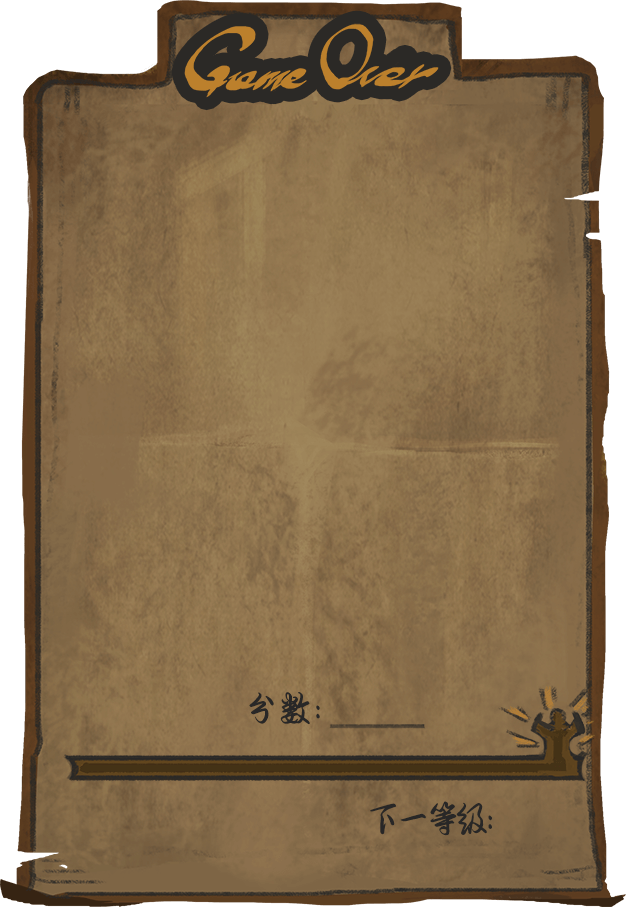
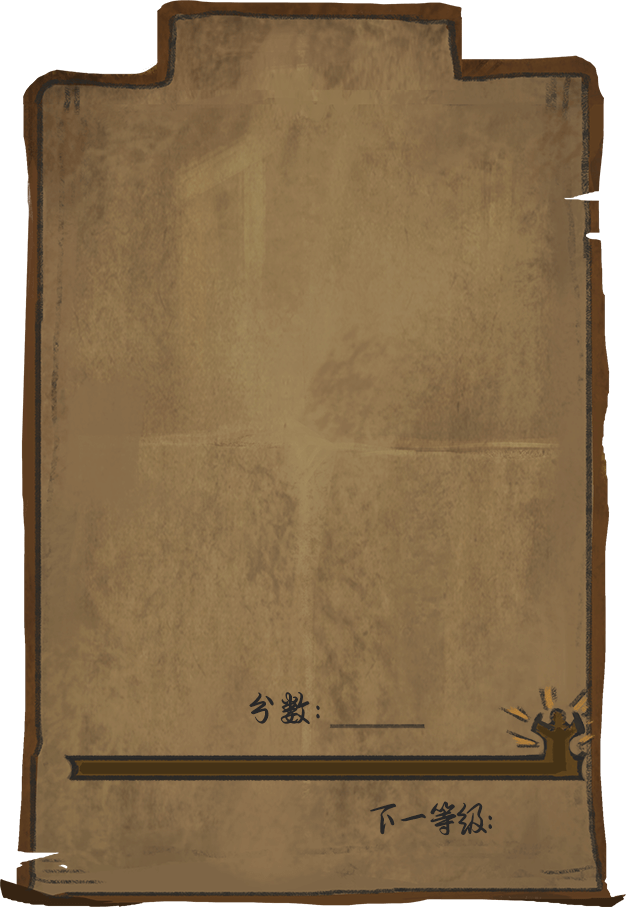
得分界面及玩家职业经验获得和升级

Changed region(s): [[0.2732, 0.0, 0.7284, 0.1221]]

diff --git a/client/src/view/ScoreView.ts b/client/src/view/ScoreView.ts
@@ -41,9 +41,23 @@ class ScoreView extends egret.DisplayObjectContainer{
 
         this.playerName = new egret.TextField();
         this.playerName.name ="playerName";
+        this.playerName.textColor = 0X000000;
+        this.playerName.verticalAlign = egret.VerticalAlign.MIDDLE;
 
         this.finalScore = new egret.TextField();
         this.finalScore.name = "finalScore";
+        this.finalScore.textColor = 0X000000;
+        this.finalScore.textAlign = egret.HorizontalAlign.CENTER;
+
+        this.exp = new egret.TextField();
+        this.exp.name = "exp";
+        this.exp.textColor = 0X000000;
+        this.exp.verticalAlign = egret.VerticalAlign.MIDDLE;
+
+        this.level = new egret.TextField();
+        this.level.name = "level";
+        this.level.textColor = 0X000000;
+        this.level.verticalAlign = egret.VerticalAlign.MIDDLE;
 
         // 滚动区域中的内容
         this.scrollContent = new egret.DisplayObjectContainer();
@@ -64,9 +78,9 @@ class ScoreView extends egret.DisplayObjectContainer{
         this.goOnBtn = new TextButtonWithBg("goForward_png", 30);
         this.goOnBtn.text = ViewUtils.getTipText("continueBtn");
         this.goOnBtn.name = "goOnBtn";
-        this.goOnBtn.onClicked = () => this.doClose();
+        this.goOnBtn.onClicked = () => this.onGoOn();
 
-        var objs = [this.bg, this.bg1, this.avatarBg, this.avatar, this.playerName, this.finalScore, this.scrollArea, this.shareBtn, this.goOnBtn];
+        var objs = [this.bg, this.bg1, this.avatarBg, this.avatar, this.playerName, this.finalScore, this.exp, this.level, this.scrollArea, this.shareBtn, this.goOnBtn];
         objs.forEach((obj, _) => this.addChild(obj));
         ViewUtils.multiLang(this, ...objs);
 
@@ -85,9 +99,15 @@ class ScoreView extends egret.DisplayObjectContainer{
 
     doClose;
 
-    onGoOn() {
-        // 获得经验
-
+    async onGoOn() {
+        // 未满级则获得经验
+        if (Utils.getOccupationLevelAndExp(this.player.occupation).level != -1){
+            var getExp = Utils.score2Exp(BattleStatistics.getFinalScore(this.scoreInfos));
+            await Utils.delay(2000);
+            Utils.addOccupationExp(this.player.occupation, getExp);
+            this.setExpTip();
+        }
+        await Utils.delay(2000);
         this.onUsing = false;
         this.doClose();
     }
@@ -106,6 +126,7 @@ class ScoreView extends egret.DisplayObjectContainer{
         ViewUtils.setTexName(this.avatar, "avatar" + this.player.occupation + "_png", true);
 
         // 设置经验条
+        this.setExpTip();
 
         // 设置总得分
         this.finalScore.text = BattleStatistics.getFinalScore(this.scoreInfos).toString();        
@@ -168,6 +189,7 @@ class ScoreView extends egret.DisplayObjectContainer{
         return container;
     }
 
+    // 滚动时调整得分信息的显示方式
     setInfoContainers(){
         if (!this.onUsing) return;
         for (var c of this.infoContainers) {
@@ -194,5 +216,20 @@ class ScoreView extends egret.DisplayObjectContainer{
         c["title"].x = c["line"].x  = this.xShort;
         c["line"].scaleX = 0.6;
         c["status"] = "short";
+    }
+
+    // 设置经验显示
+    setExpTip(){
+        var info = Utils.getOccupationLevelAndExp(this.player.occupation);
+        if (info.level == -1){
+            this.exp.alpha = 0;
+            this.level.alpha = 0;
+        }
+        else {
+            this.exp.alpha = 1;
+            this.exp.text = "[" + info.exp + "/" + GCfg.getMiscConfig("occupationLevelCfg")[info.level - 1] + "]";
+            this.level.alpha = 1;
+            this.level.text = (info.level + 1).toString();
+        }
     }
 }

diff --git a/common/logic/Utils.ts b/common/logic/Utils.ts
@@ -815,16 +815,52 @@ class Utils {
     }
 
     // 玩家某个职业获得经验
-    public static addOccupationExp(occupation:string, exp:number){     
+    public static addOccupationExp(occupation:string, exp:number) {     
+        Utils.try2InitOccupationExpInfo(occupation);
         var occupationExp = Utils.loadLocalData("occupationExp");
-        occupationExp = occupationExp ? occupationExp : {};
-        occupationExp[occupation] = occupationExp["occupation"] ? occupationExp["occupation"] : 0 + exp;
+        occupationExp[occupation] += exp;
         Utils.saveLocalData("occupationExp", occupationExp);
     }
 
     // 获取玩家某个职业的升级经验信息
-    public static loadOccupationExp(occupation:string){
+    public static getOccupationExp(occupation:string){
+        Utils.try2InitOccupationExpInfo(occupation);
+        return Utils.loadLocalData("occupationExp")[occupation];
+    }
+
+    // 初始化某职业的升级经验信息
+    public static try2InitOccupationExpInfo(occupation:string) {
         var occupationExp = Utils.loadLocalData("occupationExp");
-        return occupationExp ? (occupationExp[occupation] ? occupationExp[occupation] : 0) : 0;
+        if (!occupationExp) 
+            Utils.saveLocalData("occupationExp", {});
+        
+        var exp = Utils.loadLocalData("occupationExp")[occupation];
+        if (!exp){
+            var occupationExp = Utils.loadLocalData("occupationExp");
+            occupationExp[occupation] = 0;
+            Utils.saveLocalData("occupationExp", occupationExp);
+        }
+    }
+
+    // 根据得分获取所得经验
+    public static score2Exp(s:number) {
+        return s;
+    }
+
+    // 根据玩家在某个职业积累的经验值,获取该职业目前的等级和当前等级经验
+    public static getOccupationLevelAndExp(occupation:string) {
+        Utils.try2InitOccupationExpInfo(occupation);
+        var exp = Utils.getOccupationExp(occupation);
+        var occupationLevelCfg = GCfg.getMiscConfig("occupationLevelCfg");
+        for (var i = 0; i < occupationLevelCfg.length; i++){
+            var e = occupationLevelCfg[i];
+            if (exp > e)
+                exp -= e;            
+            else break;
+        }
+        if (i == occupationLevelCfg.length)
+            return {level:-1, exp:0};
+        else 
+            return {level:i + 1, exp:exp};
     }
 }
